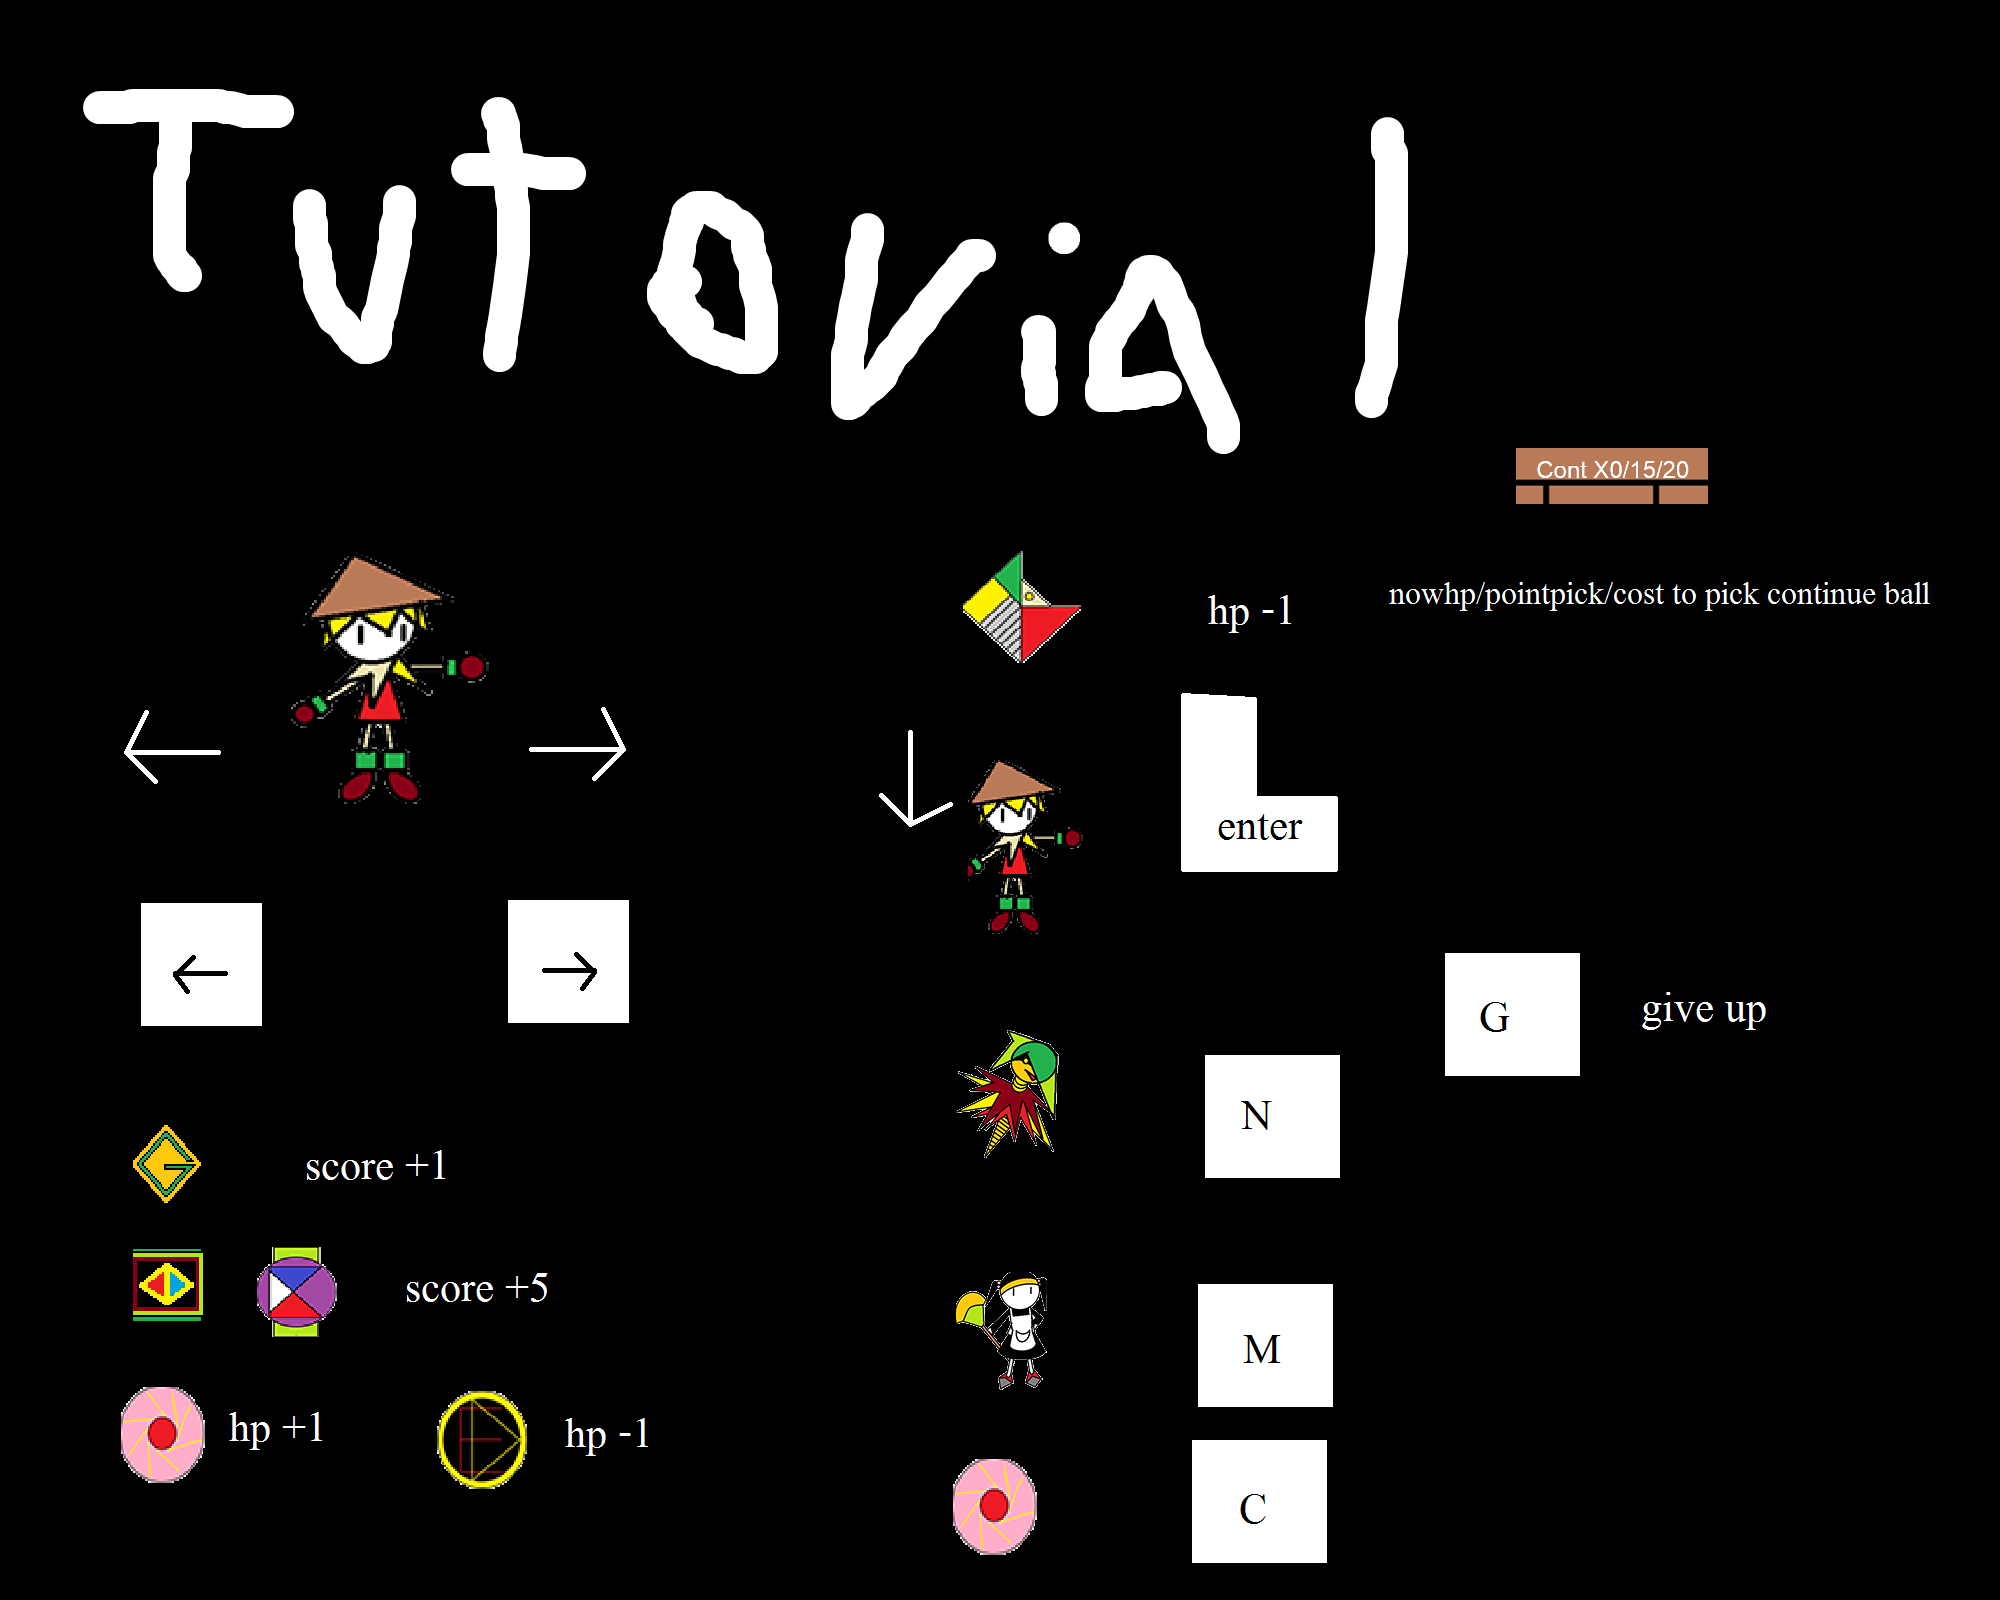
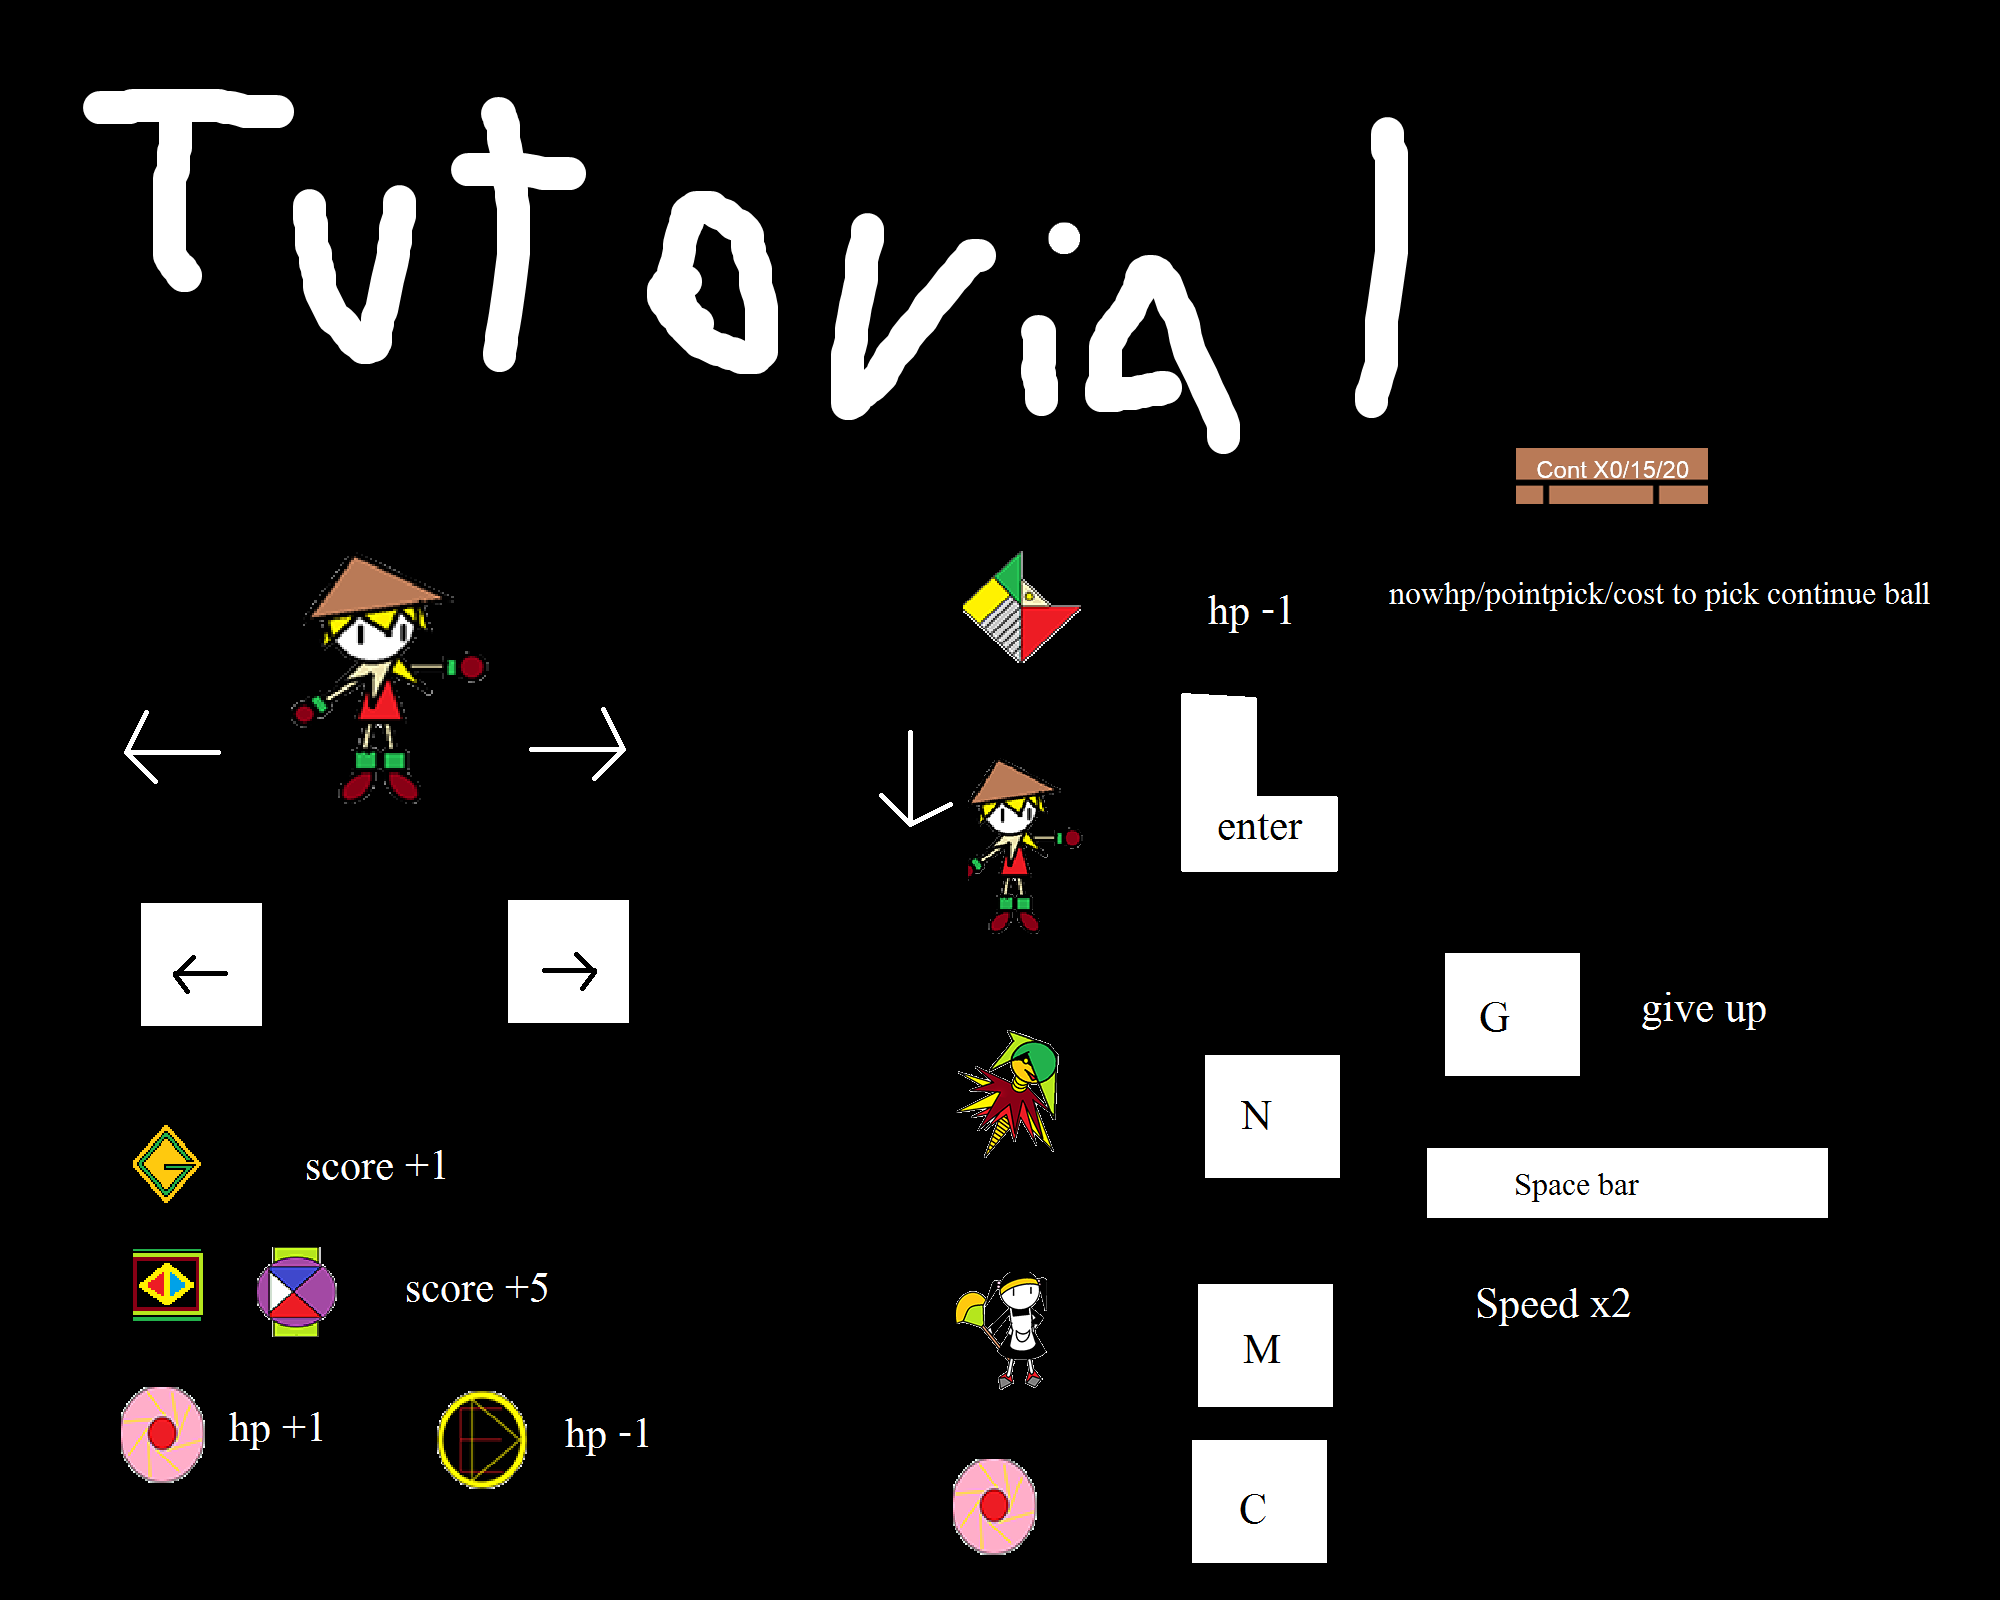
set Speed Up

Changed region(s): [[0.713, 0.7188, 0.93, 0.7812], [0.744, 0.8125, 0.806, 0.8438]]

diff --git a/src/GameLayer.js b/src/GameLayer.js
@@ -6,6 +6,7 @@ var GameLayer = cc.LayerColor.extend({
         this.score =0;
         this.cont=0;
         this.contlimit=20;
+        this.speed = 10;
         this.continuecounter=0;
         this.Playerposition = PlayerMove.NON;
         this.state = GameLayer.STATES.FRONT;
@@ -14,6 +15,7 @@ var GameLayer = cc.LayerColor.extend({
         this.rightmove=false;
         this.alive = true;
         this.tu = false;
+        this.statespeddup=false;
         this.dead = [];
         
         this.player = new Girl(this);
@@ -181,9 +183,6 @@ var GameLayer = cc.LayerColor.extend({
         
     },
     createContinueball : function(){
-        /*this.continueball = new Continueball();
-        this.continueball.setPosition( new cc.Point( screenWidth / 2, screenHeight / 2 ) );
-        this.addChild(this.continueball,2);*/
         this.continueball=[];
         var con=new Continueball();
         con.setPosition( new cc.Point( screenWidth / 2, screenHeight / 2 ) );
@@ -198,6 +197,9 @@ var GameLayer = cc.LayerColor.extend({
        this.leftmove=false;
         this.rightmove=false;
      }
+         if( e == 32){
+             this.statespeddup=false;
+        }
         console.log( 'Up: ' + e );
        
     },
@@ -215,11 +217,9 @@ var GameLayer = cc.LayerColor.extend({
       }
       else{
         if ( e == cc.KEY.right) {
-          //this.Playerposition=PlayerMove.RIGHT;
             this.rightmove=true;
         }
         else if( e == cc.KEY.left){
-          //this.Playerposition=PlayerMove.LEFT;
             this.leftmove=true;
         }
         else if( e == 13){
@@ -229,30 +229,28 @@ var GameLayer = cc.LayerColor.extend({
             this.ContinuePlayer();
             //window.location.reload();
         }
-        /*else if(e ==82){
-          //window.location.reload();
-          cc.game.restart();
-        }*/
         else if(e == 77){
             this.ContinueMaid();
-            //this.addChild(this.wall,0);
         }
         else if(e == 78){
             this.ContinueEnemy();
-            //this.addChild(this.wall,0);
         }
         else if( e == 67){
             this.createmoreContinueball();
         }
         else if( e == 71){
+          if(this.statewall==2){
             this.startstate = GameLayer.STATES.DEAD;
             this.Gameend();
+          }
         }
         else if( e == 84){
             this.OpenTutorial();
         }
+        else if( e == 32){
+             this.statespeddup=true;
+        }
       }
-        //this.checkPlayerMove();
          console.log( 'down: ' + e );
     },
     OpenTutorial: function(){
@@ -284,21 +282,11 @@ var GameLayer = cc.LayerColor.extend({
       }
     },
     ContinuePlayer: function(){
-            //this.score =0;
-          /*if(this.cont>=1){
-            this.addScore(this.score);
-            this.player.flow=10;
-            this.player.setPosition( new cc.Point( screenWidth / 2, screenHeight / 2 ) );
-            this.blockjump1.setPosition( new cc.Point( screenWidth / 2, screenHeight / 3 ) );
-            this.cont-=1;
-            this.addContinue();
-          }*/
            var pos1 = this.lifeblock.getPosition();
           if(this.cont>=1){
             this.addScore(this.score);
             this.player.flow=10;
             this.player.setPosition( new cc.Point( pos1.x, pos1.y ) );
-            //this.blockjump1.setPosition( new cc.Point( screenWidth / 2, screenHeight / 3 ) );
             this.cont-=1;
             this.addContinue();
           }
@@ -310,7 +298,6 @@ var GameLayer = cc.LayerColor.extend({
             this.maid.flow=10;
             this.maid.setPosition( new cc.Point( pos1.x, pos1.y ) );
             this.maid.RandomMove();
-            //this.blockjump1.setPosition( new cc.Point( screenWidth / 2, screenHeight / 3 ) );
             this.cont-=1;
             this.addContinue();
           }
@@ -322,7 +309,6 @@ var GameLayer = cc.LayerColor.extend({
             this.enemy.flow=10;
             this.enemy.setPosition( new cc.Point( pos1.x, pos1.y ) );
             this.enemy.RandomMove();
-            //this.blockjump1.setPosition( new cc.Point( screenWidth / 2, screenHeight / 3 ) );
             this.cont-=1;
             this.addContinue();
           }
@@ -377,6 +363,7 @@ var GameLayer = cc.LayerColor.extend({
                 this.maidandenemyfight();
                 this.Changewall();
                 this.checkDeadclose();
+                this.Speedup();
                
         }
       
@@ -405,10 +392,10 @@ var GameLayer = cc.LayerColor.extend({
     enemyMove: function(){
         var pos = this.enemy.getPosition();
         if ( this.enemy.direction == Girl.DIR.RIGHT ) {
-            this.enemy.setPosition( new cc.Point( pos.x+10, pos.y ) );
+            this.enemy.setPosition( new cc.Point( pos.x+this.speed, pos.y ) );
         }
         else if(this.enemy.direction == Girl.DIR.LEFT ) {
-            this.enemy.setPosition( new cc.Point( pos.x-10, pos.y ) ); 
+            this.enemy.setPosition( new cc.Point( pos.x-this.speed, pos.y ) ); 
         }
         if(pos.y<0){
             this.enemy.direction =Girl.DIR.UP;
@@ -438,10 +425,10 @@ var GameLayer = cc.LayerColor.extend({
     maidMove: function(){
         var pos = this.maid.getPosition();
         if ( this.maid.direction == Girl.DIR.RIGHT ) {
-            this.maid.setPosition( new cc.Point( pos.x+10, pos.y ) );
+            this.maid.setPosition( new cc.Point( pos.x+this.speed, pos.y ) );
         }
         else if(this.maid.direction == Girl.DIR.LEFT ) {
-            this.maid.setPosition( new cc.Point( pos.x-10, pos.y ) ); 
+            this.maid.setPosition( new cc.Point( pos.x-this.speed, pos.y ) ); 
         }
         if(pos.y<0){
             this.maid.direction =Girl.DIR.UP;
@@ -482,7 +469,6 @@ var GameLayer = cc.LayerColor.extend({
        var pos = this.player.getPosition();
          for(var j=0;j<this.bomb.length;j++){
             if(this.bomb[j].closeTo(this.player)){
-                //this.player.BombAtt();
                 this.bomb[j].ItemAtt(this.player);
                 this.bomb[j].randomPosition();
                 this.score+=5;
@@ -529,6 +515,7 @@ var GameLayer = cc.LayerColor.extend({
               this.cont-=1;
               this.player.Jump();
               this.dead[i].randomPosition();  
+              this.addContinue();
             }
             else{
               this.startstate = GameLayer.STATES.DEAD;
@@ -545,9 +532,12 @@ var GameLayer = cc.LayerColor.extend({
 
       }
       if(this.score%100==0){
-         for(var j=0;j<this.blocks.length;j++){
-                this.blocks[j].randomPosition();
+         for(var i=0;i<this.blocks.length;i++){
+                this.blocks[i].randomPosition();
             }
+          for(var k = 0; k<this.continueball.length;k++){
+                this.continueball[k].randomPosition();
+          }
        }
     },
     itemAction: function(){
@@ -566,6 +556,16 @@ var GameLayer = cc.LayerColor.extend({
          else if(this.score%20==0){
           this.blockjump.randomPosition();
          }
+    },
+    Speedup: function(){
+      if(this.statespeddup==true){
+        this.speed=20;
+        this.player.speed=20;
+      }
+      else{
+        this.speed=10;
+        this.player.speed=10;
+      }
     },
     Changewall: function(){
       var pos1 = this.player.getPosition();

diff --git a/src/Girl.js b/src/Girl.js
@@ -6,6 +6,7 @@ var Girl = cc.Sprite.extend({
           this.direction = Girl.DIR.RIGHT;
           this.speed=10;
           this.flow=10;
+          this.fall=-1;
     },
     update: function( dt ) {
 	        var pos = this.getPosition();
@@ -25,7 +26,7 @@ var Girl = cc.Sprite.extend({
             this.setPosition( new cc.Point( pos.x, pos.y+this.flow ) );
           }
           //if(this.flow>-40){
-          this.flow+=-1;
+          this.flow+=this.fall;
         //}
         
 

diff --git a/src/DarkGirl.js b/src/DarkGirl.js
@@ -8,6 +8,7 @@ var DarkGirl = cc.Sprite.extend({
           this.speed=10;
           //this.flow=10;
           this.flow=0;
+          this.fall=-1;
     },
     update: function( dt ) {
 	        var pos = this.getPosition();
@@ -28,7 +29,7 @@ var DarkGirl = cc.Sprite.extend({
           }
          
           //if(this.flow>-40){
-            this.flow+=-1;
+            this.flow+=this.fall;
           //}
         }
         if ( pos.y <= 0 ) {

diff --git a/src/Maidsweeper.js b/src/Maidsweeper.js
@@ -8,6 +8,7 @@ var Maidsweeper = DarkGirl.extend({
           this.speed=10;
           //this.flow=10;
           this.flow=0;
+          this.fall=-1;
     }
    
 });
